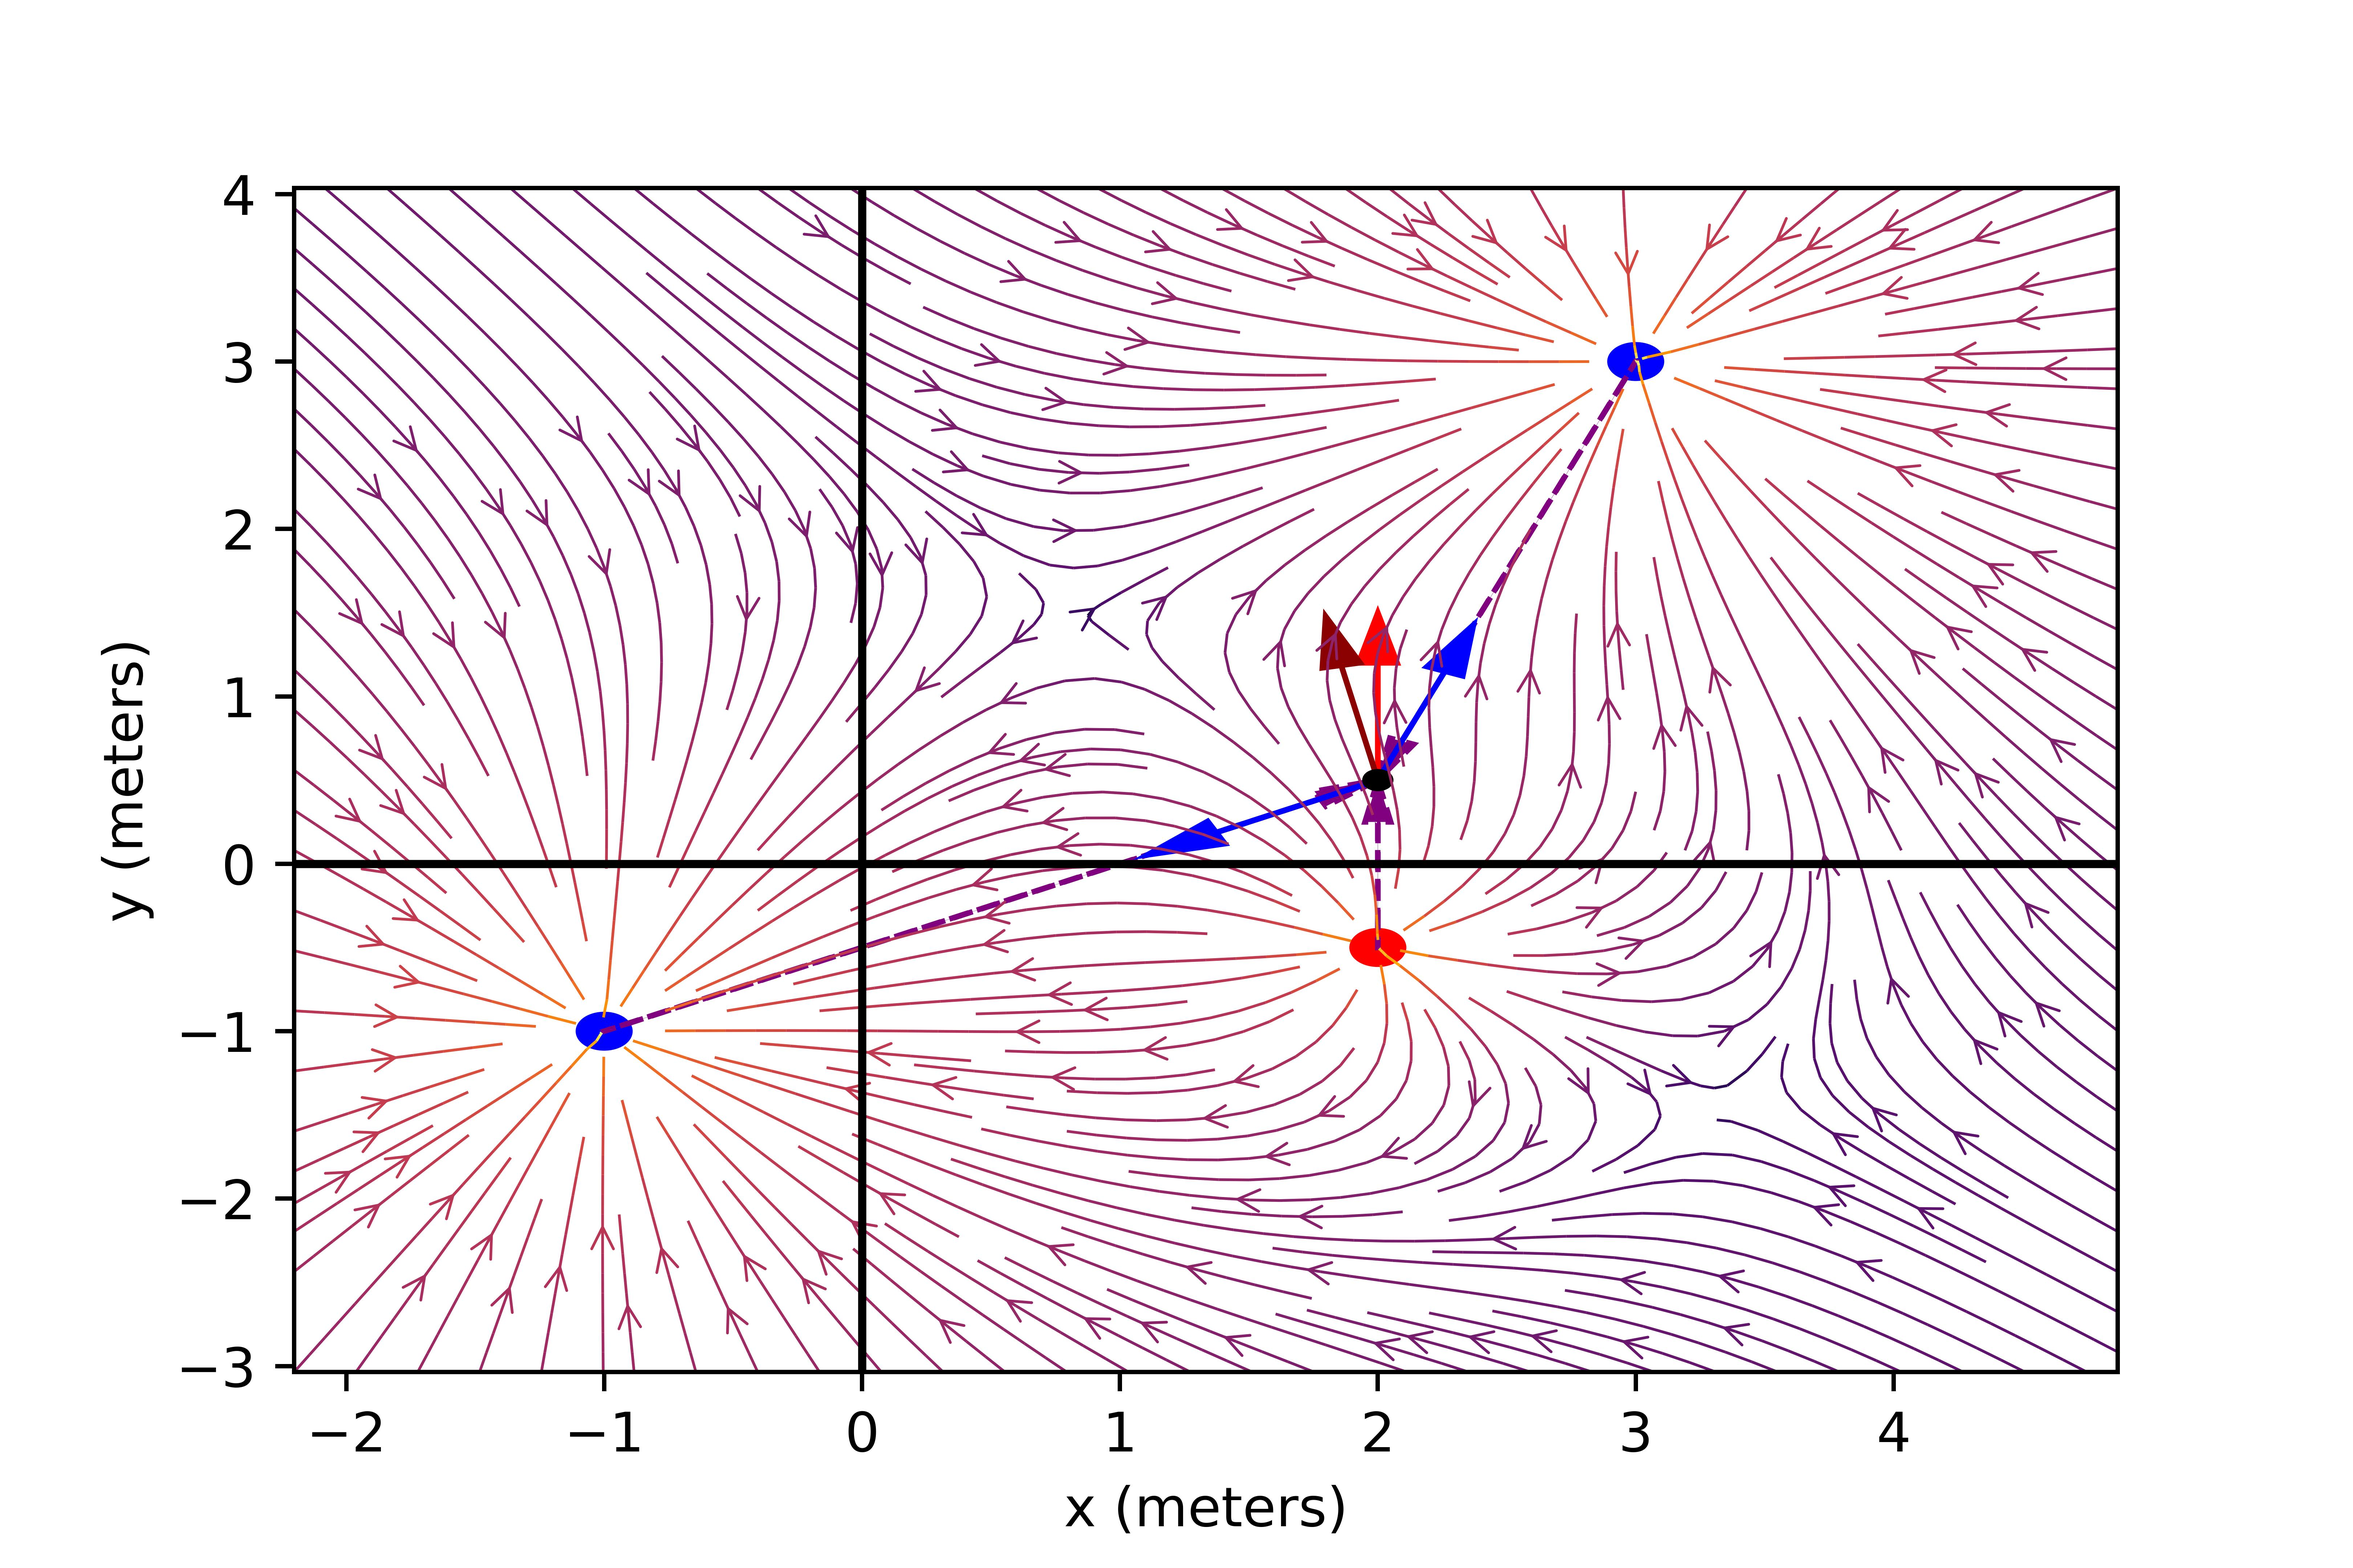
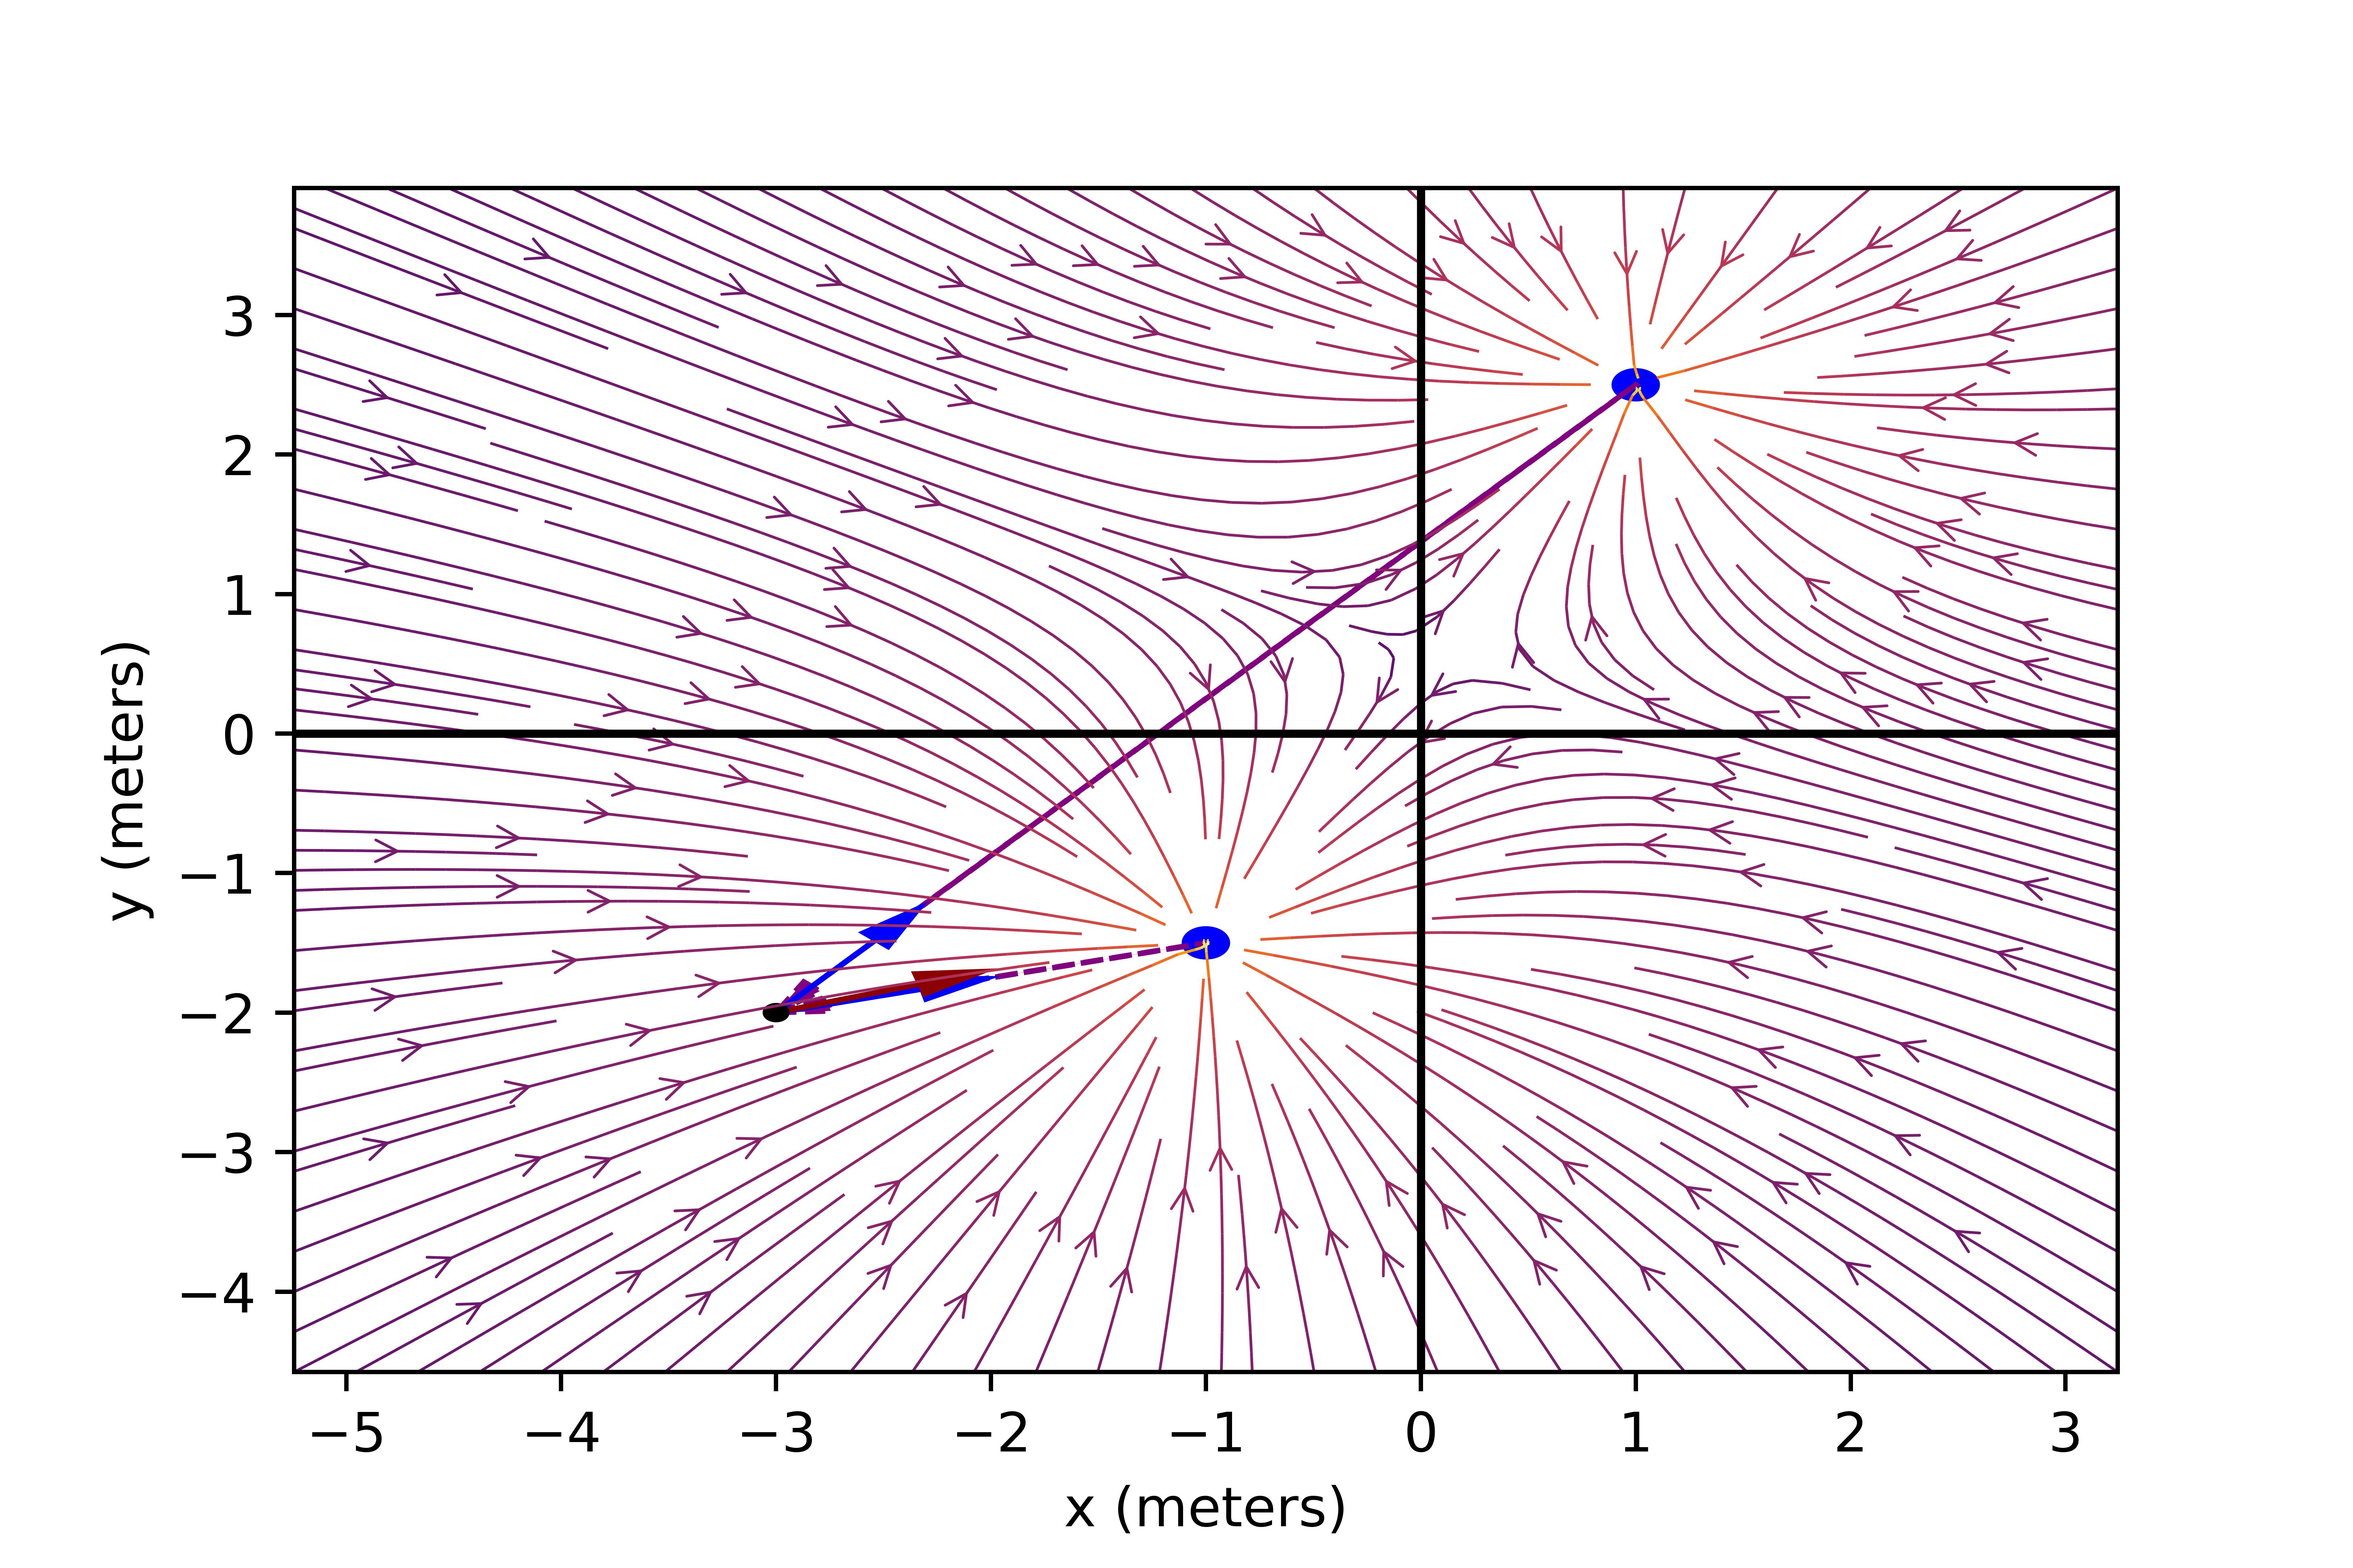
08/10 1st

diff --git a/Interface.py b/Interface.py
@@ -49,7 +49,6 @@ file2.close()
 
 
 
-
 from electric_mass.electric_charges import electricCharge
 from Questions.electrostaticQuestions import chargeSystem
 #carga del electron
@@ -57,13 +56,12 @@ e = -1.602177e-19
 
 ##Definicion de las cargas electricas y sus posiciones
 charges = []
-charges.append( electricCharge(8e13*e, (-1, -1)) )
-charges.append( electricCharge(5.3e13*e, (3, 3)) )
-charges.append( electricCharge(-1.4e13*e, (2, -0.5)) )
-charges.append( electricCharge(-4.2e13*e, (-1, 2.5)) )
+charges.append( electricCharge(6e13*e, (-1, -1.5)) )
+charges.append( electricCharge(-2.4e13*e, (2, -1)) )
+charges.append( electricCharge(5.2e13*e, (1, 2.5)) )
 
 charges_ = charges.copy()
-charges_.pop( randint( 0,len(charges_) ) )
+charges_.pop( randint( 0,len(charges_)-1 ) )
 # Define el sistema en el plano bidimensional
 Space3 = chargeSystem( charges_ )
 # Define el sistema en el plano bidimensional
@@ -71,21 +69,22 @@ Space4 = chargeSystem( charges )
 
 
 ## punto en cuestión para compo electrico
-P = (2,0.5)
+P = (-3,-2)
 
 ##Preguntas de test para Campo electrico y fuerza de coulomb
-Answer1 = Space3.ElectricFieldQuestion(P,R=5)
-Answer1.fig.savefig( 'P1 Campo Eléctrico.jpg',dpi = 1080 )
+Answer1 = Space3.ElectricFieldQuestion(P,R=6)
+Answer1.fig.savefig( f'P{ Answer1.id } Campo Eléctrico.jpg',dpi = 1080 )
 plt.show()
+plt.close()
 print( Answer1 ) 
-file1 = open('P1 Campo Eléctrico.txt','w')
-file1.write( Answer1.__str__() )
-file1.close()
+with open(f'P{ Answer1.id } Campo Eléctrico.txt','w') as file:
+    file.write( Answer1.__str__() )
+
 
 Answer2 = Space4.CoulombForceQuestion( charges[ randint( 0,len(charges)) ].id ,R=5)
-Answer2.fig.savefig( 'P2 Fuerza de Coulomb.jpg',dpi = 1080 )
+Answer2.fig.savefig( f'P{ Answer2.id } Fuerza de Coulomb.jpg',dpi = 1080 )
 plt.show()
+plt.close()
 print( Answer2 ) 
-file2 = open('P2 Fuerza de Coulomb.txt','w')
-file2.write( Answer2.__str__() )
-file2.close()
+with open(f'P{ Answer2.id } Campo Eléctrico.txt','w') as file:
+    file.write( Answer2.__str__() )

diff --git a/Questions/electrostaticQuestions.py b/Questions/electrostaticQuestions.py
@@ -18,8 +18,8 @@ class chargeSystem(Space):
         Space.__init__(self, Q,electricCharge)
         
     #Genera una grafica de campo electrico y devuelve el objeto figura (grafica)
-    def _ElectricField(self, n, R):
-        fig,splot= Space._plot_field(self, n, R )
+    def _ElectricField(self, n, R, P = None):
+        fig,splot= Space._plot_field(self, n, R , P)
         for _,charge in self._m.items():
             splot.add_artist(Circle(cmplx2tuple(charge.position), 0.1, color = charge.color ))
         return fig,splot
@@ -41,7 +41,7 @@ class chargeSystem(Space):
         if any( [ not isReal( component ) for component in P ] ): 
             raise TypeError( "componentes deben ser numeros Reales" )
         self._check_window(n,R)     
-        fig, splot = self._ElectricField( n, R )
+        fig, splot = self._ElectricField( n, R , tuple2cmplx( P ) )
         r = [ tuple2cmplx( P ) - charge.position for charge in self._m.values() ]
         Ep = sum( [ charge.E(P)  for charge in self._m.values()] )
         for i,charge in enumerate( self._m.values() ):
@@ -72,7 +72,6 @@ class chargeSystem(Space):
         q = self._m[charge_id]
         acting_charges = [ charge for m_id,charge in self._m.items() if m_id != charge_id ]
         r = [ q.position - charge.position for charge in acting_charges ]
-        print(r)
         F = sum( [ q.F(charge) for charge in acting_charges] )
         for i,charge in enumerate( acting_charges ):
             splot.arrow( *cmplx2tuple(charge.position) ,

diff --git a/Questions/magneticQuestions.py b/Questions/magneticQuestions.py
@@ -18,8 +18,8 @@ class currentSystem(Space):
         Space.__init__(self, Is,electricCurrent)
         
     #Genera una grafica de campo electrico y devuelve el objeto figura (grafica)
-    def _MagneticField(self, n, R):
-        fig,splot = Space._plot_field(self, n, R )
+    def _MagneticField(self, n, R ,P = None):
+        fig,splot = Space._plot_field(self, n, R, P)
         for current in self._m.values():
             splot.add_artist(Circle(cmplx2tuple(current.position), 0.1, color = 'gray' ))
             splot.plot( *cmplx2tuple(current.position),marker=current.marker,color='red' )
@@ -41,7 +41,7 @@ class currentSystem(Space):
         if any( [ not isReal( component ) for component in P ] ): 
             raise TypeError( "componentes deben ser numeros Reales" )
         self._check_window(n,R)     
-        fig, splot = self._MagneticField( n, R )
+        fig, splot = self._MagneticField( n, R, tuple2cmplx( P ) )
         r = [ tuple2cmplx( P ) - current.position for current in self._m.values() ]
         Bp = sum( [ current.B(P)  for current in self._m.values()] )
         for i,current in enumerate(self._m.values()):

diff --git a/Questions/space.py b/Questions/space.py
@@ -32,11 +32,14 @@ class Space:
         
     
     #Genera una grafica de campo electrico y devuelve el objeto figura (grafica)
-    def _plot_field(self, n, R):
+    def _plot_field(self, n, R, P = None):
         # encuadre de la grafica
         offsets = array( [ rect( R, (i*4+1)*pi/4 ) for i in range(2)] )
         # numero del centro de la grafica (promedio de los vectores de pocision)
-        massCenter = sum( [ mass.position for mass in self.masses.values()] )/len(self.masses)
+        if P is None:
+            massCenter = sum( [ mass.position for mass in self.masses.values()] )/len(self.masses)
+        else:
+            massCenter = sum( [ mass.position for mass in self.masses.values()] + [P] )/( len(self.masses) + 1 )
         limits = offsets + massCenter
         x = linspace( *sort(limits.real) , n )
         y = linspace( *sort(limits.imag) , n )
